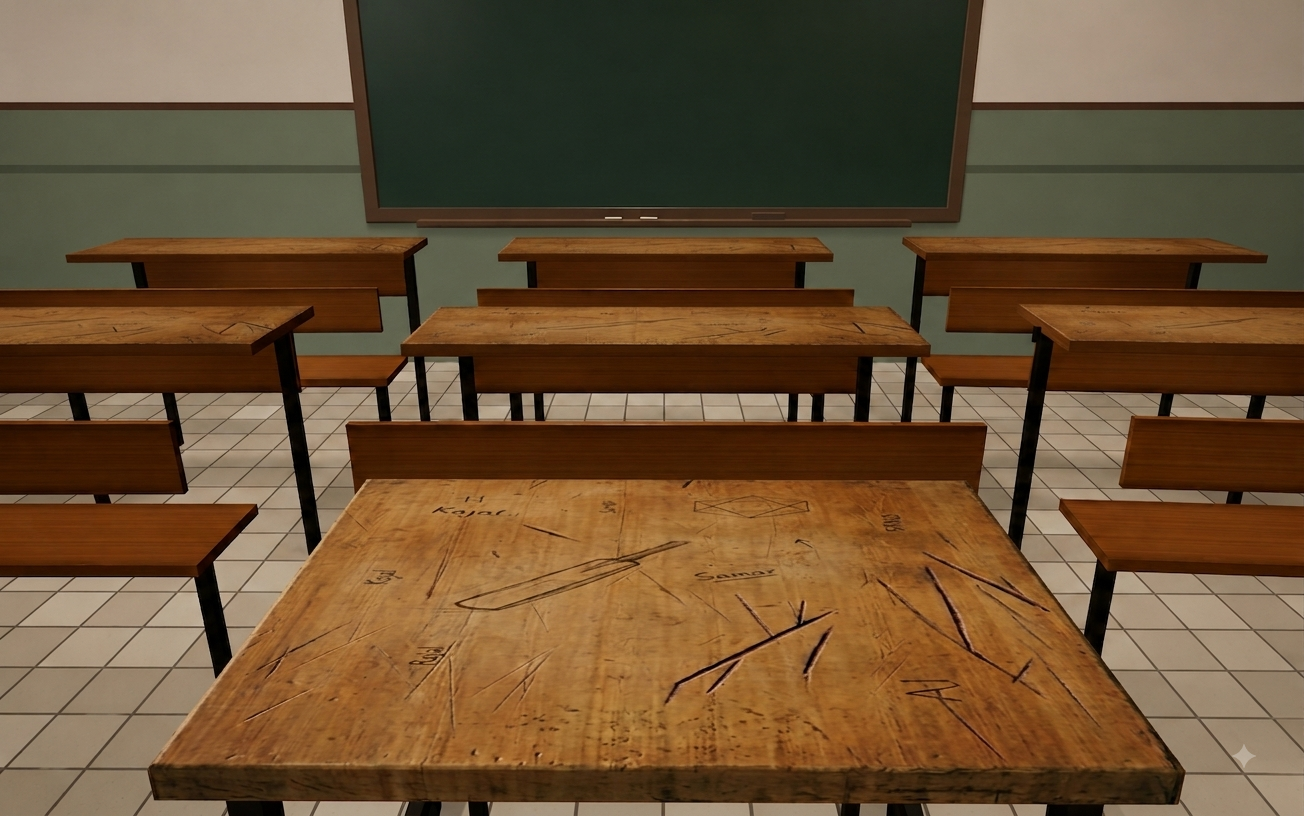
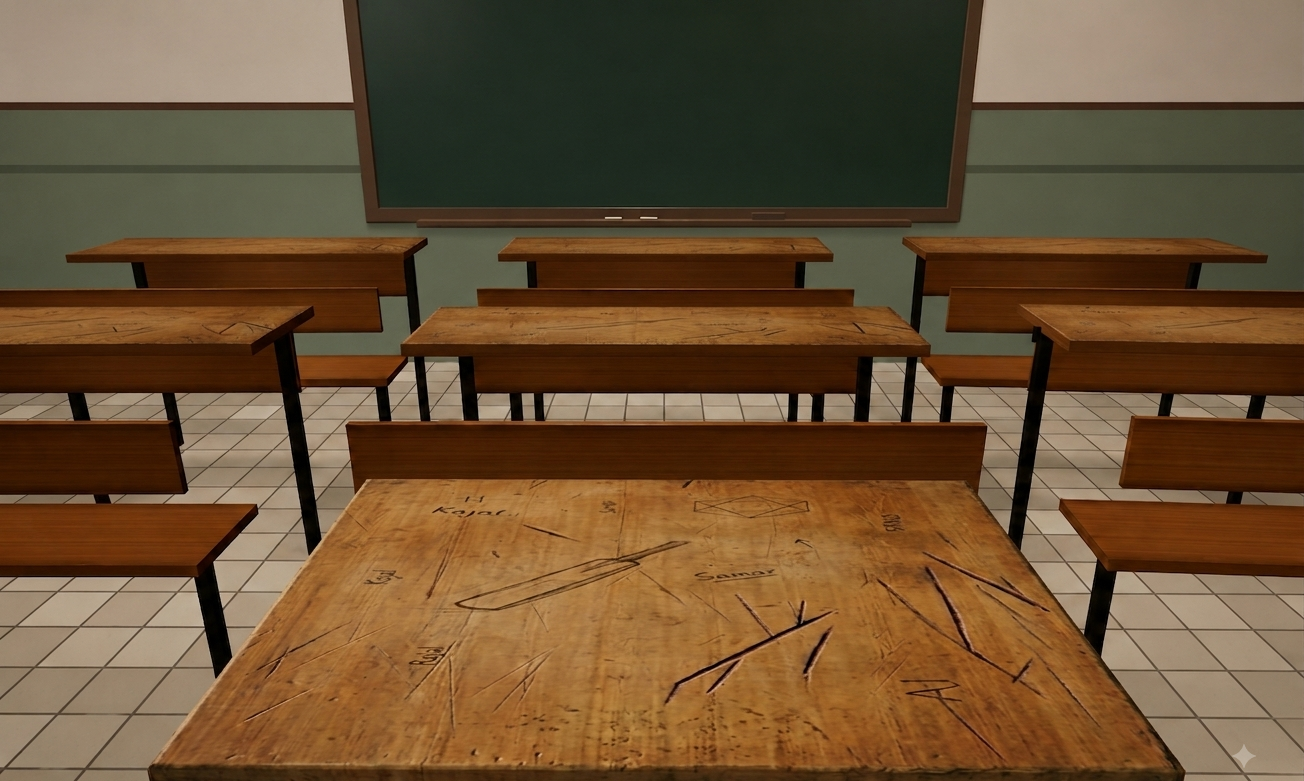
fix: desktop view pen position, canvas clipping, and watermark
- tableBotY landscape: 0.99 → 0.92 so pens stay on desk surface
- Canvas height now uses canvas container (flex-1) height instead of
  outer div to prevent image/content clipping behind header
- Cropped Gemini watermark from pen-fight-desktop.png bottom edge

diff --git a/app/(en)/vibe-room/play-zone/pen-fight/page.tsx b/app/(en)/vibe-room/play-zone/pen-fight/page.tsx
@@ -712,14 +712,15 @@ export default function PenFightPage() {
     function handleResize() {
       if (!containerRef.current) return;
       const w = containerRef.current.clientWidth || window.innerWidth;
-      const h = containerRef.current.clientHeight || window.innerHeight;
+      // Use canvas container height (flex-1 div) to avoid clipping from header
+      const h = cvs.current?.parentElement?.clientHeight || containerRef.current.clientHeight || window.innerHeight;
       sizeRef.current = { w, h };
       if (cvs.current) { cvs.current.width = w; cvs.current.height = h; }
 
       const g = G.current;
       const isLS = w > h;
       const tableTopY = h * (isLS ? 0.62 : 0.45);
-      const tableBotY = h * (isLS ? 0.99 : 0.88);
+      const tableBotY = h * (isLS ? 0.92 : 0.88);
       if (g.phase === "idle") {
         if (g.p1.y < tableTopY || g.p1.y > tableBotY) g.p1.y = tableBotY - 55;
         if (g.p2.y < tableTopY || g.p2.y > tableBotY) g.p2.y = tableTopY + 55;
@@ -743,7 +744,7 @@ export default function PenFightPage() {
     const w = sizeRef.current.w, h = sizeRef.current.h;
     const isLS = w > h;
     const tableTopY = h * (isLS ? 0.62 : 0.45);
-    const tableBotY = h * (isLS ? 0.99 : 0.88);
+    const tableBotY = h * (isLS ? 0.92 : 0.88);
 
     if (g.tmr) { clearTimeout(g.tmr); g.tmr = null; }
     g.p1 = mkP(w / 2 + (Math.random() - 0.5) * (w * 0.20), tableBotY - 55 + (Math.random() - 0.5) * 20, (Math.random() - 0.5) * 0.5);
@@ -836,7 +837,7 @@ export default function PenFightPage() {
           // Table boundaries — portrait vs landscape
           const isLS = cw > ch;
           const tableTopY = ch * (isLS ? 0.62 : 0.45);
-          const tableBotY = ch * (isLS ? 0.99 : 0.88);
+          const tableBotY = ch * (isLS ? 0.92 : 0.88);
           const topW = cw * (isLS ? 0.54 : 0.82), botW = cw * (isLS ? 1.0 : 1.0);
           const topX1 = (cw - topW) / 2, topX2 = topX1 + topW;
           const botX1 = (cw - botW) / 2, botX2 = botX1 + botW;
